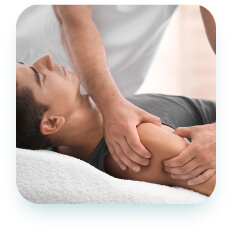
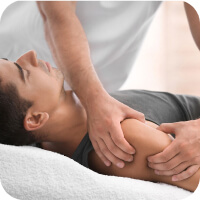
CSS minify and prefix

diff --git a/CSS/styles.min.css b/CSS/styles.min.css
@@ -1,0 +1,1 @@
+button,hr,input{overflow:visible}progress,sub,sup{vertical-align:baseline}.main-link,.site-logo,.sitenav-link{text-decoration:none}.main-link,.sitenav{letter-spacing:2px;text-transform:uppercase}.example{display:-ms-grid;display:grid;-webkit-transition:.5s;-o-transition:.5s;transition:.5s;-webkit-user-select:none;-moz-user-select:none;-ms-user-select:none;user-select:none;background:-webkit-gradient(linear,left top,left bottom,from(white),to(black));background:-o-linear-gradient(top,#fff,#000);background:linear-gradient(to bottom,#fff,#000)}/*! normalize.css v8.0.1 | MIT License | github.com/necolas/normalize.css */html{line-height:1.15;-webkit-text-size-adjust:100%;scroll-behavior:smooth}details,main{display:block}h1{font-size:2em;margin:.67em 0}hr{-webkit-box-sizing:content-box;box-sizing:content-box;height:0}[type=checkbox],[type=radio],legend{-webkit-box-sizing:border-box;padding:0}code,kbd,pre,samp{font-family:monospace,monospace;font-size:1em}a{background-color:transparent}abbr[title]{border-bottom:none;text-decoration:underline;-webkit-text-decoration:underline dotted;text-decoration:underline dotted}b,strong{font-weight:bolder}small{font-size:80%}sub,sup{font-size:75%;line-height:0;position:relative}sub{bottom:-.25em}sup{top:-.5em}img{border-style:none}button,input,optgroup,select,textarea{font-family:inherit;font-size:100%;line-height:1.15;margin:0}button,select{text-transform:none}[type=button],[type=reset],[type=submit],button{-webkit-appearance:button}[type=button]::-moz-focus-inner,[type=reset]::-moz-focus-inner,[type=submit]::-moz-focus-inner,button::-moz-focus-inner{border-style:none;padding:0}[type=button]:-moz-focusring,[type=reset]:-moz-focusring,[type=submit]:-moz-focusring,button:-moz-focusring{outline:ButtonText dotted 1px}fieldset{padding:.35em .75em .625em}legend{box-sizing:border-box;color:inherit;display:table;max-width:100%;white-space:normal}textarea{overflow:auto}[type=checkbox],[type=radio]{box-sizing:border-box}[type=number]::-webkit-inner-spin-button,[type=number]::-webkit-outer-spin-button{height:auto}[type=search]{-webkit-appearance:textfield;outline-offset:-2px}[type=search]::-webkit-search-decoration{-webkit-appearance:none}::-webkit-file-upload-button{-webkit-appearance:button;font:inherit}summary{display:list-item}[hidden],template{display:none}*{-webkit-box-sizing:border-box;box-sizing:border-box}body{font-family:"Open Sans",Arial,sans-serif;font-weight:400;font-size:16px;line-height:1;margin:0;padding:0;color:#222}:focus{outline:#DE2E54 dotted 2px;outline-offset:2px}.container{width:100%;max-width:1160px;padding-left:30px;padding-right:30px;margin-left:auto;margin-right:auto}.site-logo img{margin-right:16px;border-radius:50%}.site-logo{display:-webkit-box;display:-ms-flexbox;display:flex;-webkit-box-align:center;-ms-flex-align:center;align-items:center;-webkit-box-pack:center;-ms-flex-pack:center;justify-content:center;font-family:"OPen Sans",Arial,sans-serif;color:#222;font-size:24px;font-weight:700}.site-logo:hover,.sitenav-footer .sitenav-link:hover,.sitenav-link:hover{color:#de2e54}.site-logo:active,.sitenav-link:active{opacity:.6}.sitenav{font-size:14px;font-weight:700}.sitenav-list{display:-webkit-box;display:-ms-flexbox;display:flex;-webkit-box-align:center;-ms-flex-align:center;align-items:center;padding:0;margin:0;list-style:none}.sitenav-item:not(:last-child){margin-right:32px}.sitenav-link{display:block;color:#222}.main-link,.site-logo-footer,.sitenav-footer .sitenav-link{color:#fff}.site-header{padding-top:24px;padding-bottom:24px;background-color:#fff}.hero-container,.site-header-actions,.site-header-container{display:-webkit-box;display:-ms-flexbox;display:flex;-webkit-box-align:center;-ms-flex-align:center;align-items:center;-webkit-box-pack:justify;-ms-flex-pack:justify;justify-content:space-between}.sitenav-item:last-child{margin-right:0}.sitenav-footer .sitenav-link:active{color:#fff;opacity:.6}.main-link{display:inline-block;padding:10px 22px;border:2px solid #de2e54;border-radius:8px;font-size:15px;font-family:Roboto,Arial,sans-serif;background-color:#de2e54}.cta-links,.index-service{display:-webkit-box;display:-ms-flexbox}.main-link:hover{color:#de2e54;background-color:#fff}.main-link:active{background-color:#de2e54;color:#fff;opacity:.6}.main-link-solid:hover{background-color:transparent;background:rgba(222,46,84,.8);color:#fff}.main-link-solid:active{background:rgba(222,46,84,.6);opacity:1}.main-link-outline{border-color:#fff;background-color:transparent;color:#fff}.cta,.hero{background-color:#0eb4c1}.main-link-outline:hover{border-color:transparent;background-color:#de2e54;color:#fff}.hero{color:#fff;margin:0;padding:0}.hero-content,.index-services{padding-top:120px;padding-bottom:120px}.hero-content{-webkit-box-align:center;-ms-flex-align:center;align-items:center;width:500px}.hero-heading{margin:0 0 16px;font-family:'Open Sans',Arial,sans-serif;font-size:36px;line-height:1.2}.cta-heading,.index-services-heading{text-align:center;font-family:"Open Sans",Raobot,Arial,sans-serif;font-size:36px;line-height:1.2}.hero-text{width:440px;margin-top:0;margin-bottom:36px}.hero-img{-ms-flex-item-align:end;align-self:flex-end}.index-services-heading{margin-top:0;color:#000;margin-bottom:56px}.index-services-list{width:864px;list-style:none;padding:0;margin:0 auto 60px}.index-services-item:not(:last-child){margin-bottom:80px}.index-service{display:flex;-webkit-box-align:center;-ms-flex-align:center;align-items:center}.index-services-img{width:200px;height:200px;-o-object-fit:cover;object-fit:cover;margin-right:64px;border-radius:24px;-webkit-box-shadow:0 12px 24px -8px rgba(0,107,116,.3);box-shadow:0 12px 24px -8px rgba(0,107,116,.3)}.index-service-content{width:900px}.index-services-title{margin-top:0;margin-bottom:24px;color:#222}.index-services-description{color:#444}.index-services-actions{text-align:center}.cta{padding:64px;color:#fff}.cta-heading{margin-top:0;margin-bottom:40px}.cta-links{display:flex;-webkit-box-align:center;-ms-flex-align:center;align-items:center;-webkit-box-pack:center;-ms-flex-pack:center;justify-content:center}.cta-links-item:not(:last-child){margin-right:40px}.site-footer{padding-top:24px;padding-bottom:24px;background-color:#222;color:#fff}.site-footer-container{display:-webkit-box;display:-ms-flexbox;display:flex;-webkit-box-pack:justify;-ms-flex-pack:justify;justify-content:space-between;-webkit-box-align:center;-ms-flex-align:center;align-items:center}

diff --git a/CSS/index.css b/CSS/index.css
@@ -224,12 +224,18 @@ body{
   align-items: center;
 }
 .index-services-img{
+  /* display: block;
+  margin-left: auto;
+  margin-right: auto;
+  width: 200px;
+  height: 200px;
+  margin: 16px; */
   width: 200px;
   height: 200px;
   object-fit: cover;
   margin-right: 64px;
   border-radius: 24px;
-  /* box-shadow: 0px 12px 24px -8px rgba(0, 107, 116, 0.3); rasmni o'zida box-shadow bor bo'lgani uchun  bu olib tashlandi*/
+  box-shadow: 0px 12px 24px -8px rgba(0, 107, 116, 0.3);
 }
 .index-service-content{
   width: 900px;

diff --git a/index.html b/index.html
@@ -7,8 +7,9 @@
   <title>Ansormed</title>
   
   <!-- CSS -->
-  <link href="css/normalize.css" rel="stylesheet">
-  <link href="css/index.css" rel="stylesheet">
+  <link rel="stylesheet" href="css/styles.min.css">
+  <!-- <link href="css/normalize.css" rel="stylesheet">
+  <link href="css/index.css" rel="stylesheet"> -->
   
   <!-- GOOGLE FONTS -->
   <link rel="preconnect" href="https://fonts.googleapis.com">
